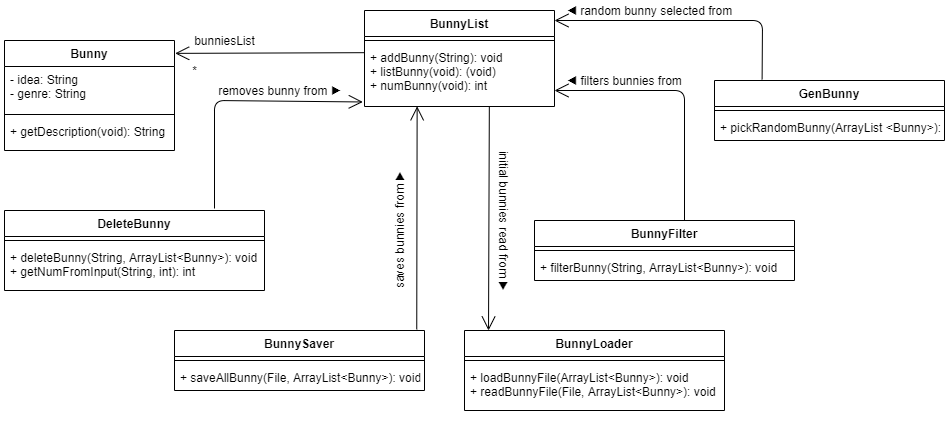
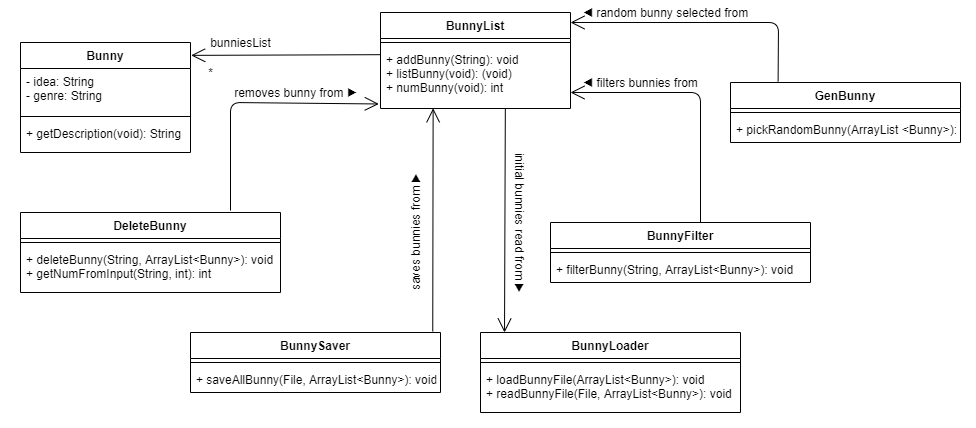
Add updated diagrams to DG

Changed region(s): [[0.0, 0.0, 1.0, 0.9835]]

diff --git a/docs/DeveloperGuide.md b/docs/DeveloperGuide.md
@@ -118,18 +118,30 @@ the command `filter -continue by\start limit\10 -cs -cg.`
    
 ## Bunny class family
 ![UML Bunny class diagram](graphics/diagrams/Class_diagram_bunny.png)
+<center><i>Figure 6:  Bunny ideas UML Class Diagram</i></center>
+The above class diagram describes the overall architecture of the bunny list functionalities. Recall that the term bunny refers to  plot ideas that have yet to be devloped. 
+The above classes provide the functionality of storing such ideas in an organised manner that can easily be searched, saved and loaded.
 
+The `BunnyList` class has the public ArrayList of bunnies `bunniesList` that is accessed by the `DeleteBunny` class method `deleteBunny` which removes 
+a selected bunny from the `bunniesList` ArrayList. Similarly, `bunniesList` is also accessed by the `BunnyFilter` class which 
+contains the `filterBunny` function which can filter through the list and obtain bunnies with specified keywords in the 
+idea or the genre using the command `filter bunny i\IDEA g\GENRE`, where the user may choose to omit either the `IDEA` 
+or the `GENRE` when running the command. 
+
+The `BunnySaver` class accesses the `bunniesList` and overwrites the current `bunny.txt` file in the data directory, 
+saving all `Bunny` objects into the file using the `saveAllBunny`  method. Bunny objects saved in that file can then 
+be read by the `BunnyLoader` class and added into the `bunniesList` ArrayList each time the program is started up 
+using the `loadBunnyFile` method.
 
 ![UML BunnyList sequence diagram](graphics/diagrams/Sequence_diagram_bunny)
+<center><i>Figure 7:  Bunny list UML Sequence Diagram</i></center>
 
-
+The user may call upon the `bunny` command to add bunnies to the list. The command executor would 
 
 ## Names class family
 
-<p align="center">
-  <img src="https://github.com/AY2021S1-CS2113T-W11-4/tp/blob/master/docs/graphics/diagrams/classDiagram_Names.png"><br>
-  <i>Figure 7: Names UML Class Diagram</i>
-</p>
+![Names UML Class Diagram](graphics/diagrams/classDiagram_Names.png)
+<center><i>Figure 8: Names UML Class Diagram</i></center>
 
 The above class diagram (Figure 6) describes the overall architecture of the name list functionalities. The Names class 
 has the protected ArrayList of names, nameList, that is accessed by the Names class method getName which randomly gets 
